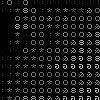
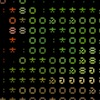
Update GLSL example

diff --git a/examples/007/index.html b/examples/007/index.html
@@ -58,8 +58,8 @@ void main()
     if (gray > 0.8) n = 11512810.0; // #
     
     vec2 p = mod(uv/4.0, 2.0) - vec2(1.0);
-    col = gray * vec3(character(n, p));
-    //col = col * character(n, p);
+    //col = gray * vec3(character(n, p));
+    col = col * character(n, p);
     
     gl_FragColor = vec4(col, 1.0);
 }
